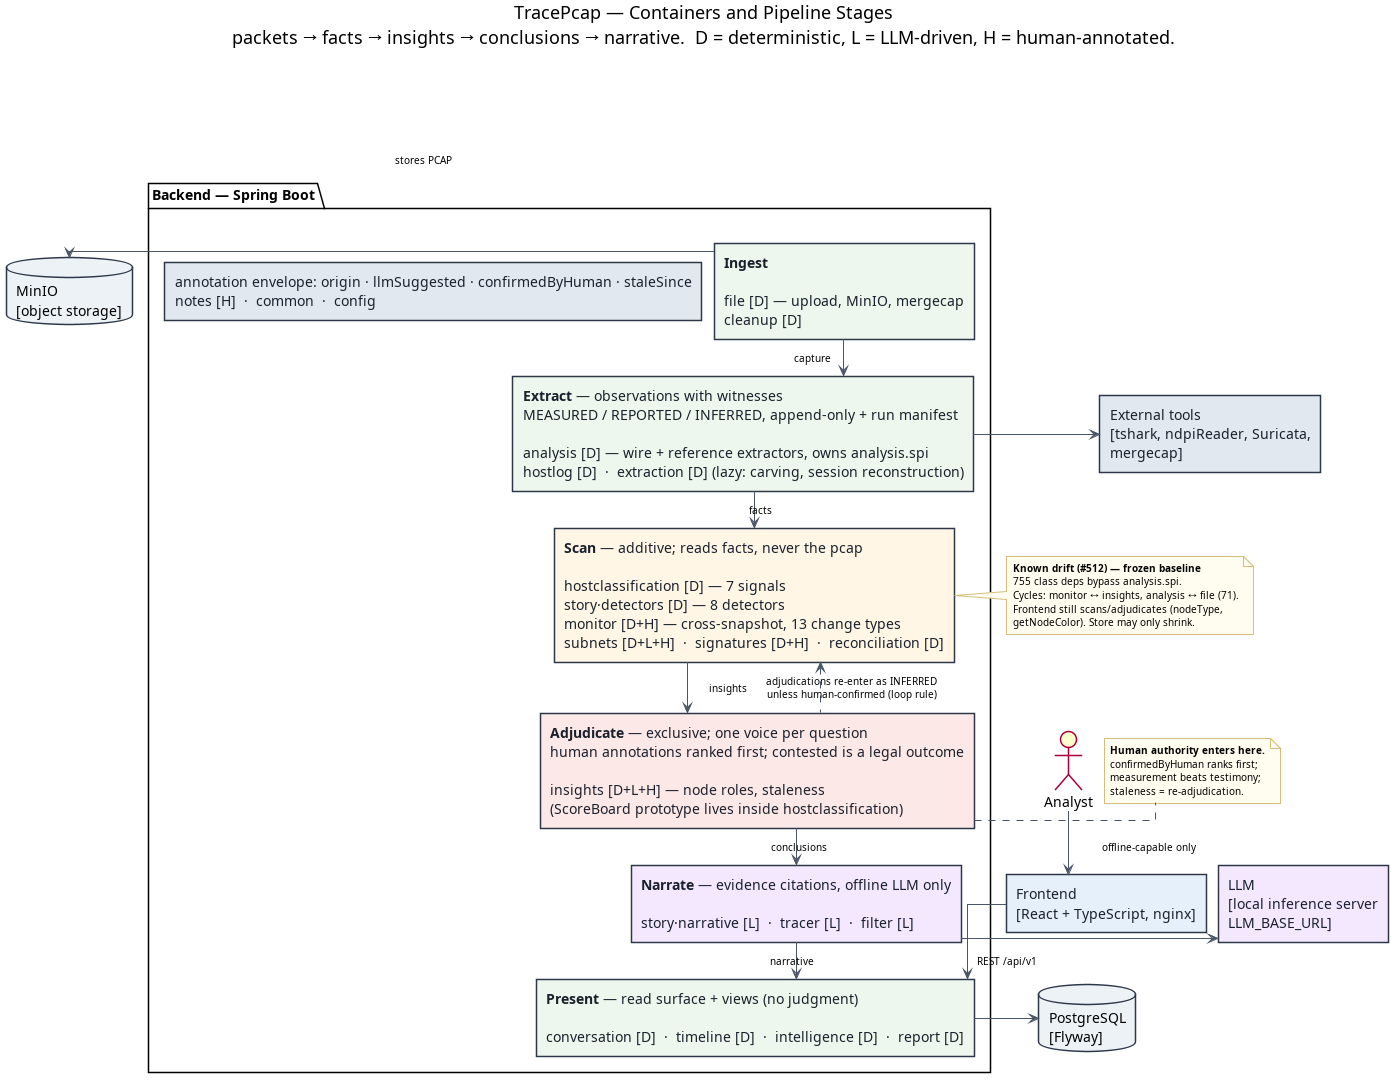
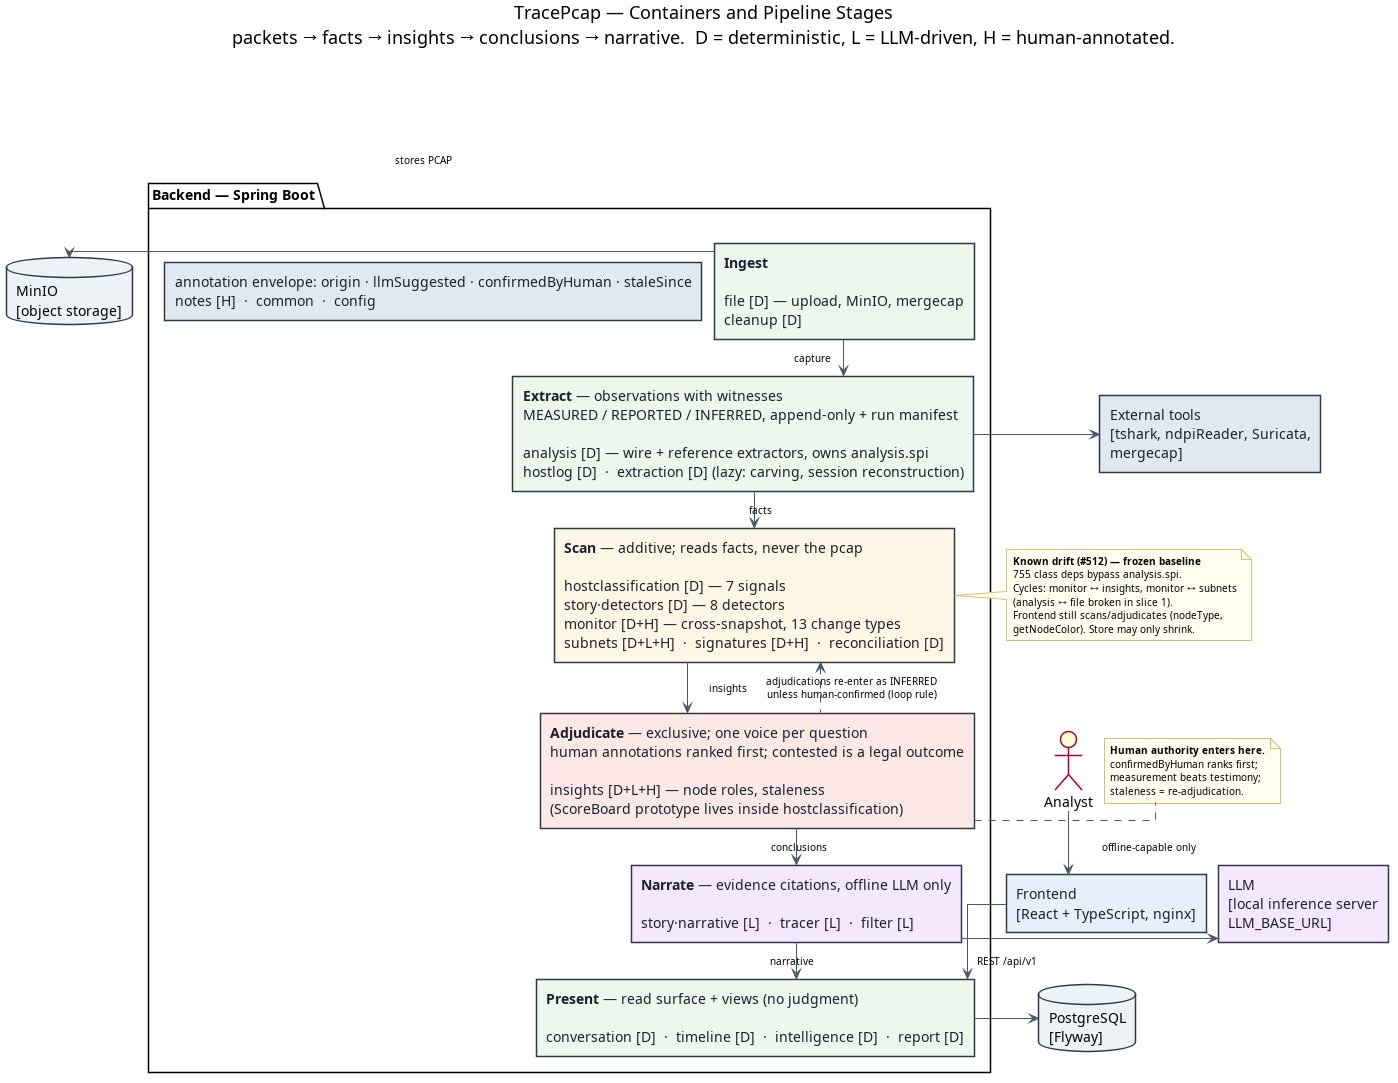
refactor(analysis): break the analysis ↔ file cycle — listener moves to its consumer (#512, slice 1)
file's FileUploadEventListener was the module's only dependency on analysis:
it consumed file's own FileUploadedEvent and called AsyncAnalysisService.
The publisher owns the event; the consumer owns the listener — so the
listener moves into analysis.service, file stops knowing analysis exists,
and the cycle is gone. Behaviour is identical: same event, same
AFTER_COMMIT phase, same async scheduling.

Instructive side effect: with analysis ↔ file eliminated, ArchUnit's cycle
enumeration surfaced a pre-existing third cycle it had never reported —
monitor ↔ subnets, via a fully-qualified inline reference at
ChangeDetectionService:64 that import greps can't see. Refroze the cycle
store to record it (docs updated: the frozen cycle roster understates
until the last cycle is gone). Net cycle roster: monitor ↔ insights,
monitor ↔ subnets.

Full backend suite green (130 tests, 0 failures); docker compose build
backend passes.

Changed region(s): [[0.7074, 0.4875, 0.892, 0.6094]]

diff --git a/backend/src/main/java/com/tracepcap/analysis/service/FileUploadEventListener.java b/backend/src/main/java/com/tracepcap/analysis/service/FileUploadEventListener.java
@@ -1,13 +1,18 @@
-package com.tracepcap.file.event;
+package com.tracepcap.analysis.service;
 
-import com.tracepcap.analysis.service.AsyncAnalysisService;
+import com.tracepcap.file.event.FileUploadedEvent;
 import lombok.RequiredArgsConstructor;
 import lombok.extern.slf4j.Slf4j;
 import org.springframework.stereotype.Component;
 import org.springframework.transaction.event.TransactionPhase;
 import org.springframework.transaction.event.TransactionalEventListener;
 
-/** Listener for file upload events */
+/**
+ * Bridges Ingest to Extract: reacts to the {@code file} module's upload event by scheduling
+ * analysis. Lives in {@code analysis} — the publisher owns the event, the consumer owns the
+ * listener — so {@code file} needs no knowledge of {@code analysis} (#512, breaks the
+ * {@code analysis ↔ file} cycle).
+ */
 @Slf4j
 @Component
 @RequiredArgsConstructor

diff --git a/docs/architecture/layers.rst b/docs/architecture/layers.rst
@@ -382,10 +382,15 @@ Measured against the model above; frozen in the ArchUnit baseline where enforcea
 is a refactor target, not a shrug.
 
 * **755 class dependencies** bypass ``analysis.spi`` and reach into ``analysis`` repositories or
-  entities (rule 2). **Two cycles, 71 dependencies**: ``monitor ↔ insights`` (the decoupling
-  event ``NodeRoleChangedEvent`` already exists, unevenly applied) and ``analysis ↔ file``
-  (single edge — ``file`` needs only ``AsyncAnalysisService``). Rule 1 holds at **zero**
-  violations.
+  entities (rule 2). **Two cycles**: ``monitor ↔ insights`` (the decoupling event
+  ``NodeRoleChangedEvent`` already exists, unevenly applied) and ``monitor ↔ subnets``
+  (``ChangeDetectionService:64`` reaches into ``SubnetStalenessService`` via a fully-qualified
+  inline reference — invisible to import greps, caught by bytecode analysis). Rule 1 holds at
+  **zero** violations. A third cycle, ``analysis ↔ file``, was broken in slice 1 by moving
+  ``FileUploadEventListener`` into ``analysis`` — the publisher owns the event, the consumer owns
+  the listener. Notably, fixing it is what *surfaced* ``monitor ↔ subnets``: ArchUnit's cycle
+  enumeration reported it only once the graph changed, a reminder that the frozen cycle store
+  understates until the last cycle is gone.
 * **``HostnameResolverService`` adjudicates at write time** — picks a winner by source priority
   and discards competing claims, erasing the very conflicts the identity scanners need (#511's
   spoofing case is undetectable today). Contrast ``IpMacObservationEntity``, which does it

diff --git a/docs/architecture/enforcement.rst b/docs/architecture/enforcement.rst
@@ -47,7 +47,10 @@ Current baseline
      - Cross-module reaches into ``analysis`` repositories/entities.
    * - ``no_module_cycles``
      - 71
-     - Dependencies participating in ``monitor ↔ insights`` and ``analysis ↔ file``.
+     - Dependencies participating in ``monitor ↔ insights`` and ``monitor ↔ subnets``.
+       (``analysis ↔ file`` was broken in slice 1; fixing it surfaced ``monitor ↔ subnets``,
+       which ArchUnit's cycle enumeration had not reported until the graph changed — expect the
+       roster to shift as cycles are eliminated.)
    * - ``raw_capture_access_is_confined_to_extract_stage``
      - 6
      - All in ``FilterService`` (validates LLM-generated filters against the pcap) — the one
